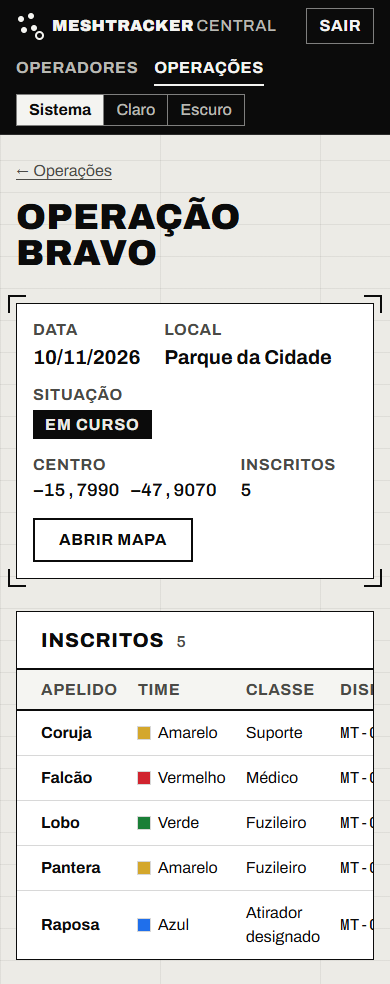
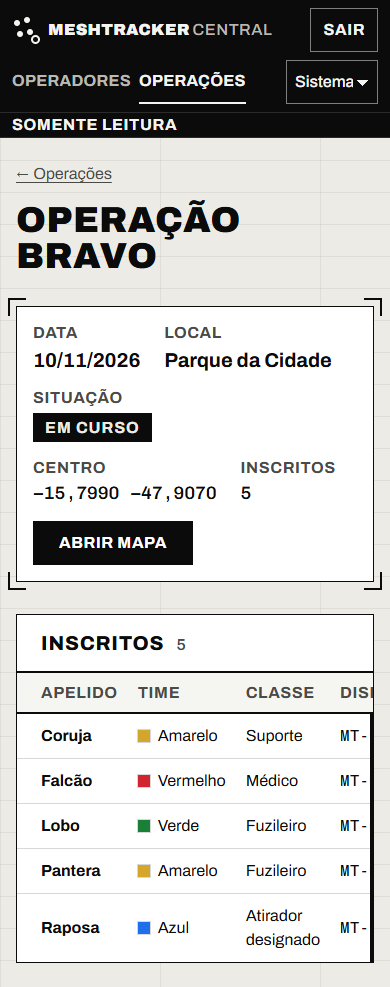
docs: prints das telas corrigidas e recortes para o deck

diff --git a/docs/design/telas/LEIAME.md b/docs/design/telas/LEIAME.md
@@ -1,8 +1,8 @@
-# Prints das telas (para o Figma)
+# Prints das telas (para o Figma e o deck)
 
-Gerado em 08/11/2026, a partir do commit `fe538cd` (`git rev-parse --short HEAD`).
+Gerado em 09/11/2026, a partir do commit `738e8f8` (`git rev-parse --short HEAD`).
 
-Os dados vêm do seed (`src/demo_seed.py`) e do simulador (`src/simulador.py`). Os sinais são simulados: o Coruja (MT-03) para de enviar de propósito para aparecer como perdido no mapa.
+Os dados vêm do seed (`src/demo_seed.py`) e do simulador (`src/simulador.py`). Os sinais são simulados: o Coruja (MT-03) para de enviar de propósito para aparecer como perdido no mapa. A Charlie aparece com cinco inscritos, que o organizador fez pelo formulário.
 
 Os prints saíram com a barra de rolagem escondida, então a largura do PNG é exatamente a da janela: 1440 ou 390 px. A altura é a da página inteira e varia de arquivo para arquivo. O fundo do deck tem 1920×1080.
 
@@ -11,12 +11,22 @@ Os prints saíram com a barra de rolagem escondida, então a largura do PNG é e
 - `login-1440.png`, `login-390.png`: tela de entrada, sem papel.
 - `organizador-operadores-*.png`, `observador-operadores-*.png`: lista de operadores.
 - `organizador-operacoes-*.png`, `observador-operacoes-*.png`: lista de operações (Alfa encerrada, Bravo em curso, Charlie planejada).
-- `organizador-operacao-bravo-*.png`, `observador-operacao-bravo-*.png`: dossiê e inscritos da Bravo, com o formulário de inscrição (só o organizador inscreve).
+- `organizador-operacao-bravo-*.png`, `observador-operacao-bravo-*.png`: dossiê e inscritos da Bravo. O organizador vê o formulário de inscrição e o botão Encerrar; o observador vê só leitura, sem formulário.
 - `organizador-operacao-charlie-*.png`, `observador-operacao-charlie-*.png`: operação planejada e sem inscritos.
-- `organizador-operacao-recusa-1440.png`: recusa de inscrição duplicada (Falcão já inscrito na Bravo).
-- `organizador-mapa-*.png`, `observador-mapa-*.png`: mapa da Bravo, com situação dos operadores (Coruja perdido, demais ativos).
+- `organizador-operacao-charlie-inscritos-1440.png`: a Charlie com os cinco inscritos (Coruja, Falcão, Lobo, Pantera, Raposa), feitos pelo organizador.
+- `organizador-operacao-recusa-1440.png`: recusa de inscrição duplicada (Falcão já inscrito na Bravo). A opção do Falcão vem desabilitada no seletor; para mostrar a recusa do servidor, o teste reabilitou essa opção na página antes do envio.
+- `organizador-mapa-*.png`, `observador-mapa-*.png`: mapa da Bravo, com a situação dos operadores (Coruja perdido, demais ativos).
 - `organizador-mapa-claro-1440.png`, `organizador-mapa-escuro-1440.png`: mesmo mapa nos temas Claro e Escuro.
 - `fundo-mapa-parque-1920x1080.png`: só o mapa, em tela cheia, no tema Escuro, sem marcadores, réguas, retícula, carimbo nem zoom. Mantém a atribuição "© OpenStreetMap" e a escala. Serve de fundo do deck.
+
+## Recortes de prova (`recortes/`)
+
+Recortes de elemento ou de região, em escala 1:1 (pixel CSS, sem `deviceScaleFactor` 2), para o projetor.
+
+- `h1-charlie-inscritos.png` (848×342): o bloco de inscritos da Charlie com os cinco.
+- `h2-faixa.png` (1376×78): a faixa de contagem do mapa da Bravo (Perdidos, Atrasados, Ativos, Sem sinal, Descartados, Inscritos).
+- `h2-coruja.png` (640×400): região do mapa em volta da Coruja perdida, com colchetes e rótulo, no zoom 17.
+- `h3-observador.png` (1440×328): topo da Bravo como observador, com a moldura, "Somente leitura" e o dossiê, sem formulário.
 
 ## Como importar no Figma
 
